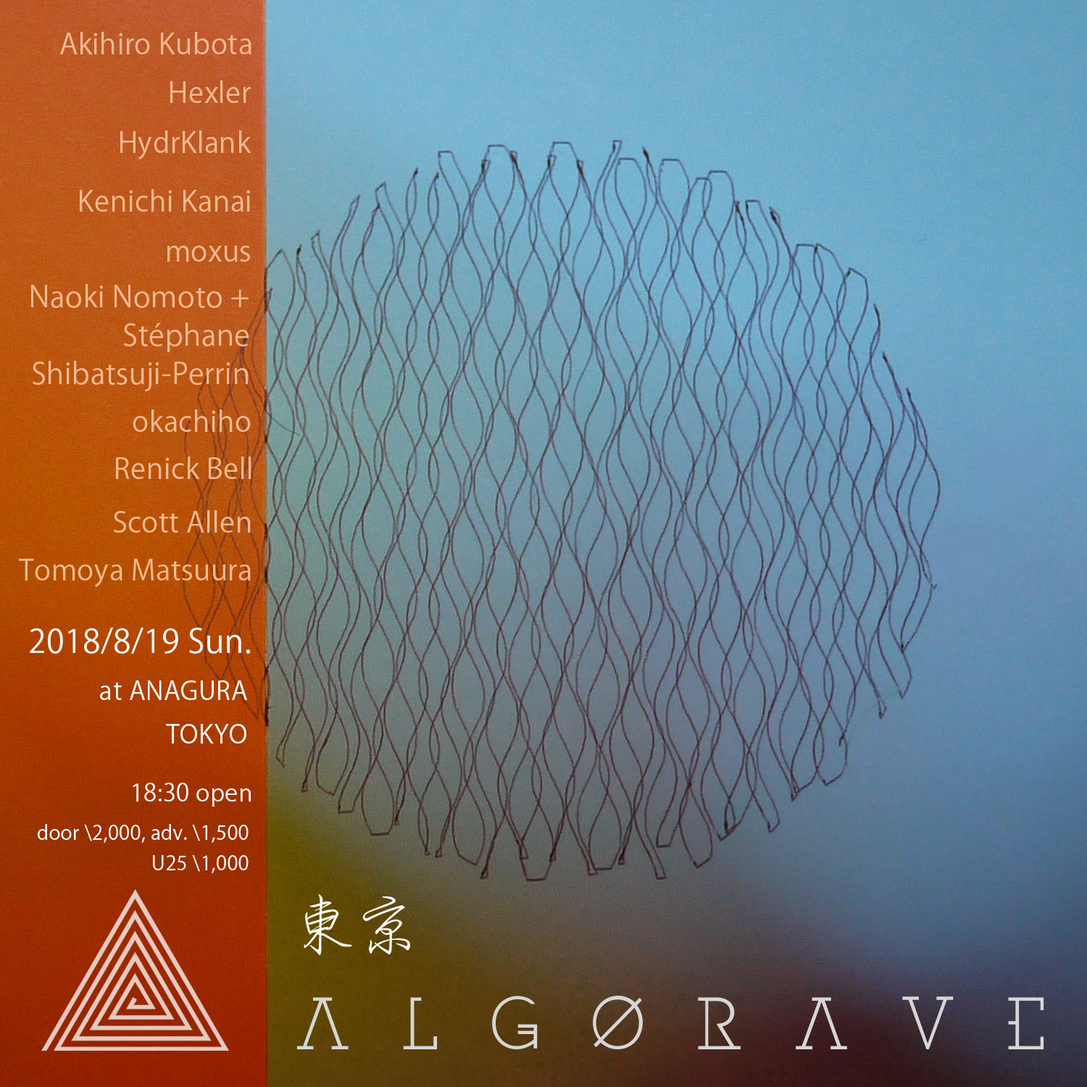
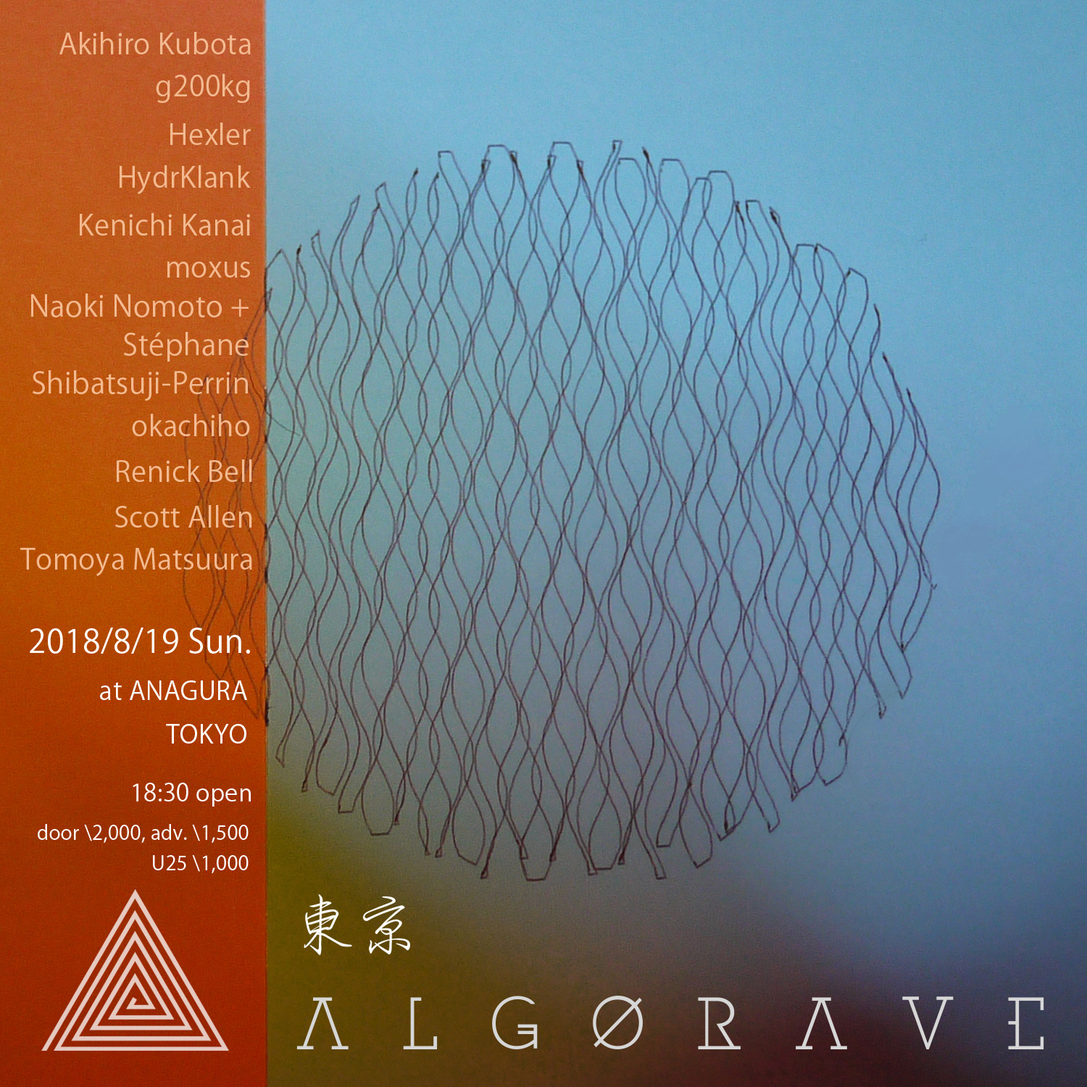
added g200kg

Changed region(s): [[0.0307, 0.0307, 0.2453, 0.552]]

diff --git a/index.html b/index.html
@@ -59,6 +59,9 @@
               Akihiro Kubota
             </li>
             <li>
+              g200kg
+            </li>
+            <li>
               HydrKlank
             </li>
             <li>
